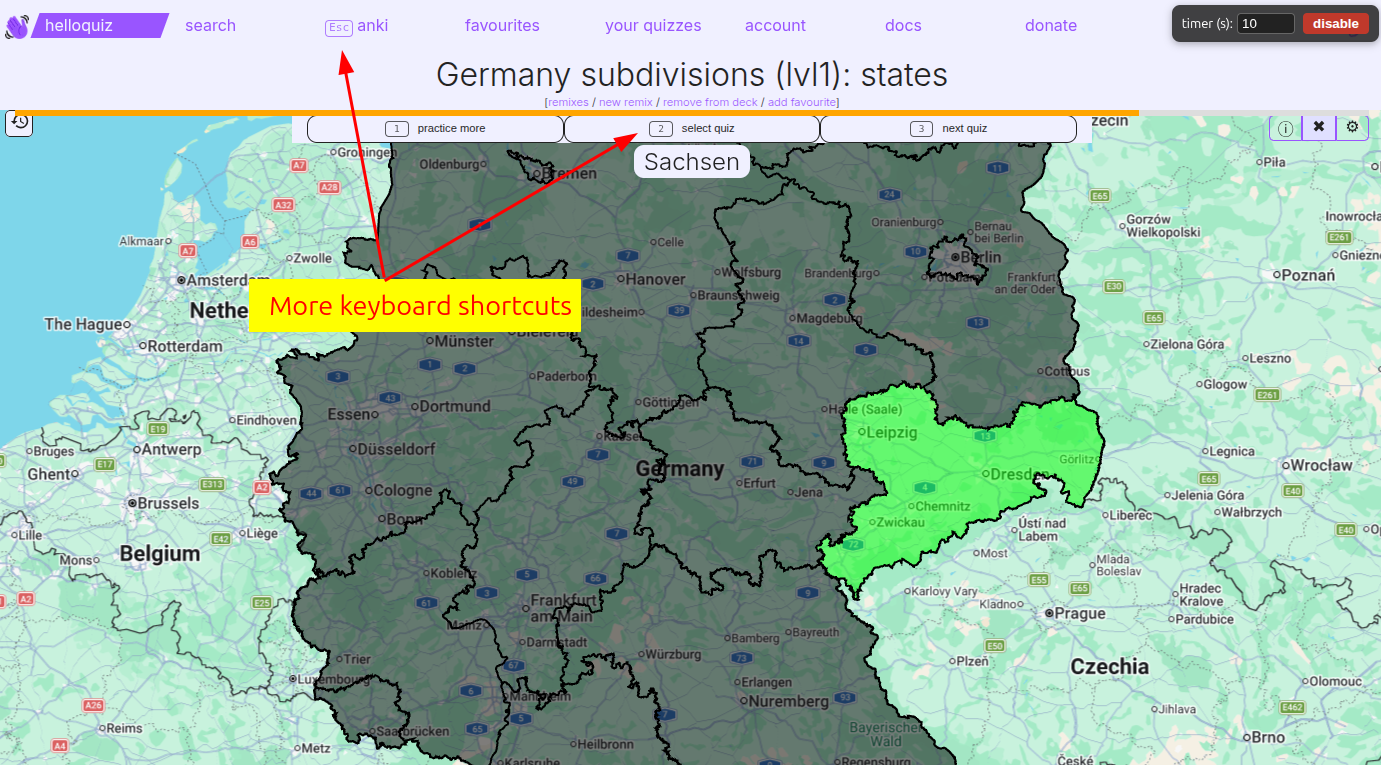
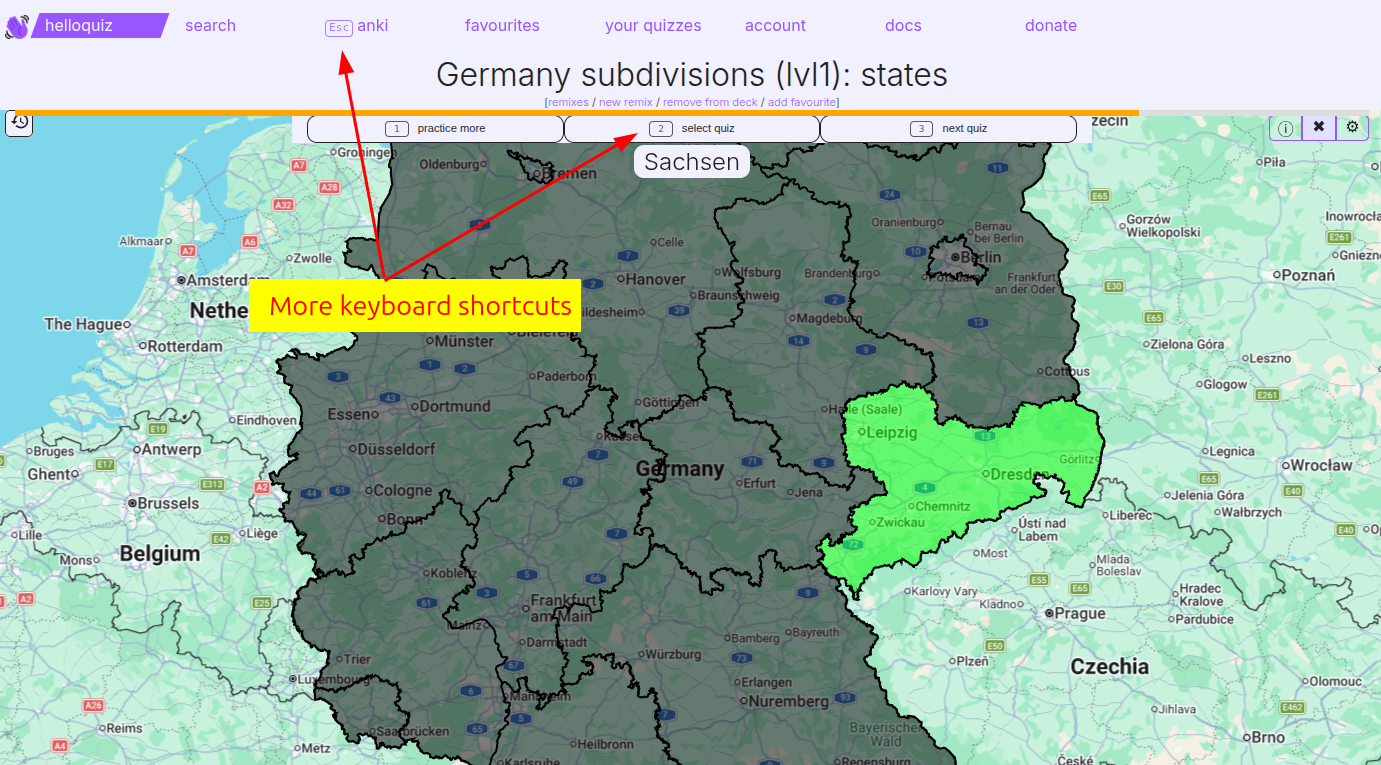
update readme & new screenshots

Changed region(s): [[0.8407, 0.0, 1.0, 0.0601]]

diff --git a/README.md b/README.md
@@ -5,13 +5,13 @@ A [Tampermonkey](https://www.tampermonkey.net/) / [Violentmonkey](https://violen
 ## Features
 
 - **Per-question countdown** — a thin timer bar counts down from a configurable number of seconds. When it runs out, the card is automatically graded as failed ("again"), so slowly scanning the map for the right city/region gets penalized automatically.
-- **Review pause after mistakes** — when you answer wrong (or time out), the quiz pauses on the current card so you can study and learn it before moving on. Toggle it with the **pause after mistakes** checkbox in the control panel.
-- **Keyboard shortcuts** with visible `kbd` badges:
-  - `1`–`4` — grade the current card (again / hard / good / easy), or open quiz rows 1–4 on the `/learn` list.
-  - `1` / `2` / `3` — end-of-quiz navigation: practice more (`▶`) / select quiz (`⇋`) / next quiz (`→`).
-  - `Esc` — jump back to the `/learn` (anki mode) list.
+- **Review pause after mistakes** — when you answer wrong (or time out), the quiz pauses on the current card so you can study and learn it before moving on.
+- **Settings** — the quiz's settings panel is extended, so that you can enable/disable the countdown timer, set the timer duration, and enable/disable the review pause. All settings are remembered across sessions.
+- **Keyboard shortcuts** with matching on-screen key badges:
+  - <kbd>1</kbd> / <kbd>2</kbd> / <kbd>3</kbd> / <kbd>4</kbd> — grade the current card (again / hard / good / easy), or open quiz rows 1–4 on the `/learn` list.
+  - <kbd>1</kbd> / <kbd>2</kbd> / <kbd>3</kbd> — end-of-quiz navigation: practice more (`▶`) / select quiz (`⇋`) / next quiz (`→`).
+  - <kbd>Esc</kbd> — jump back to the `/learn` (anki mode) list.
 - **Auto pause/resume** — the countdown pauses when you switch tabs or the window loses focus, and resumes where it left off when you come back.
-- **Settings** — an *Anki Turbo Config* section added to the bottom of the quiz's own settings panel, to set the timer duration, enable/disable the timer, and toggle the review pause. All settings are remembered across sessions.
 
 ## Installation
 
@@ -23,14 +23,14 @@ A [Tampermonkey](https://www.tampermonkey.net/) / [Violentmonkey](https://violen
 
 ## Screenshots
 
-The countdown bar across the top and the adjustable-timer control panel in the corner:
+The countdown bar across the top, and the *Anki Turbo Config* options in the quiz's settings panel:
 
-![The countdown timer bar and the adjustable-timer control panel](screenshots/adjustable-timer.png)
+![The countdown timer bar and the Anki Turbo Config settings](screenshots/config-timer.png)
 
 Keyboard-shortcut badges and labels on the buttons:
 
 ![Keyboard shortcut hints on the quiz buttons](screenshots/keyboard-shortcuts.png)
 
-The review pause after a wrong answer, so you can study the card you just missed:
+The review pause after a wrong answer, so you can study the map you just missed — it works even on city quizzes:
 
 ![The review pause after a mistake](screenshots/pause.png)